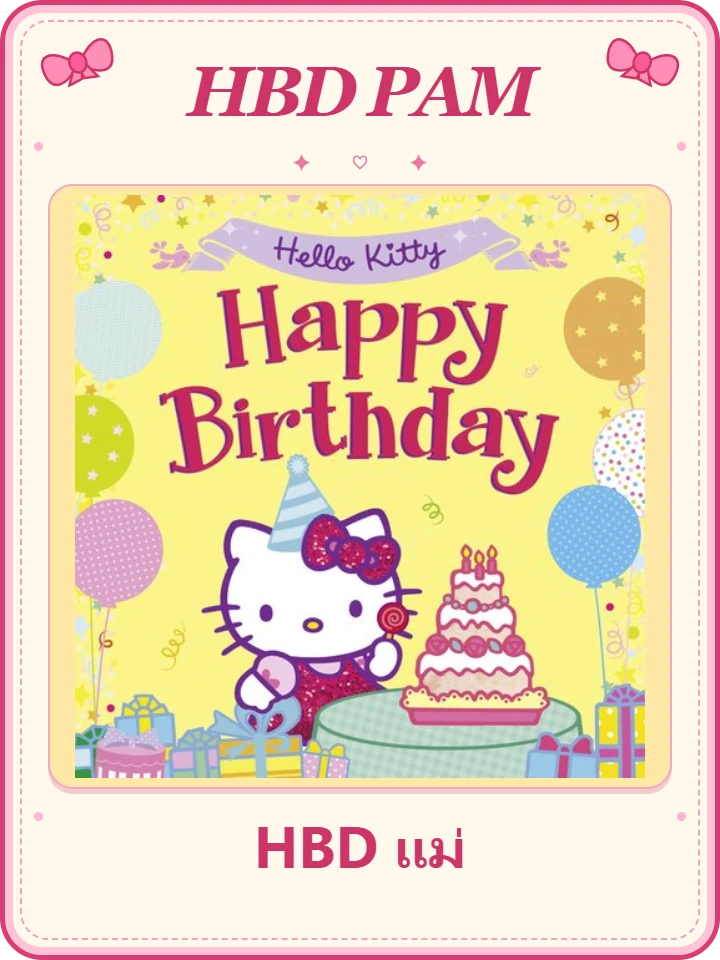
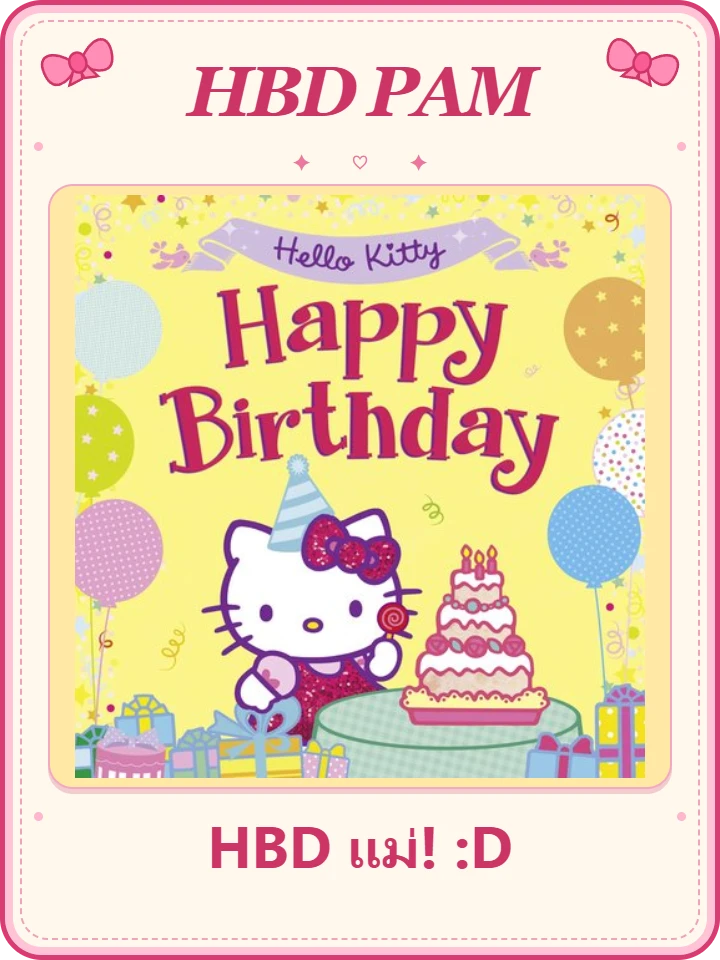
Add cheerful punctuation to birthday greeting for mom

Changed region(s): [[0.275, 0.8438, 0.7333, 0.9062]]

diff --git a/app.js b/app.js
@@ -325,10 +325,10 @@
   function showFinale() {
     if (machine.state !== 'anticipation') return;
     machine.state = 'finale'; els.app.classList.remove('is-anticipating'); els.app.classList.add('is-finale');
-    els.focus.innerHTML = '<figure class="finale-card"><div class="image-frame"><img src="'+finale.src+'" alt="'+finale.alt+'" data-fallback="Kitty cake" draggable="false"></div><figcaption><h1 class="finale-title">HBD PAM!</h1><p class="finale-sub">HBD แม่</p><div class="ascii-cheer" aria-hidden="true"><span>✧</span> (ﾉ◕ヮ◕)ﾉ*:･ﾟ✧ <span>✧</span></div><button class="end-button" id="galleryButton" type="button" hidden>ดูทั้งหมด / ดูอีกครั้ง</button></figcaption></figure>';
+    els.focus.innerHTML = '<figure class="finale-card"><div class="image-frame"><img src="'+finale.src+'" alt="'+finale.alt+'" data-fallback="Kitty cake" draggable="false"></div><figcaption><h1 class="finale-title">HBD PAM!</h1><p class="finale-sub">HBD แม่! :D</p><div class="ascii-cheer" aria-hidden="true"><span>✧</span> (ﾉ◕ヮ◕)ﾉ*:･ﾟ✧ <span>✧</span></div><button class="end-button" id="galleryButton" type="button" hidden>ดูทั้งหมด / ดูอีกครั้ง</button></figcaption></figure>';
     flash('mega-flash'); particles.burst(innerWidth/2,innerHeight*.43,120,'finale'); particles.finaleRain();
     if (navigator.vibrate) navigator.vibrate([40,30,70]);
-    announce('HBD PAM! HBD แม่');
+    announce('HBD PAM! HBD แม่! :D');
     later(() => {
       const button = $('#galleryButton'); button.hidden=false;
       button.addEventListener('click',showGallery,{once:true});

diff --git a/index.html b/index.html
@@ -61,7 +61,7 @@
     <section class="screen gallery-screen" id="galleryScreen" aria-labelledby="galleryHeading" aria-hidden="true">
       <header class="gallery-header">
         <p class="eyebrow"></p>
-        <h2 id="galleryHeading">HBD PAM · HBD แม่</h2>
+        <h2 id="galleryHeading">HBD PAM · HBD แม่! :D</h2>
         <p>แตะการ์ดเพื่อเปิดดูใบใหญ่ได้เลย</p>
       </header>
       <div class="gallery-grid" id="galleryGrid"></div>

diff --git a/README.md b/README.md
@@ -2,7 +2,7 @@
 
 A mobile birthday surprise in strawberry pink, cream, and cherry red, with floating kaomoji decorations. The page starts with the gift box. Tap it rapidly to make it shake and glow, then watch nine birthday cards bounce out and appear one at a time. The letter waits for you to read **happy birthday สูง เก่งง ^^** before the grand Hello Kitty cake reveal.
 
-Every birthday card includes **HBD PAM** and **HBD แม่**. After the reveal, view the collection or replay the gift opening. The supplied “A Sweet Smile” MP3 starts on the first gift tap. There are no audio controls.
+Every birthday card includes **HBD PAM** and **HBD แม่! :D**. After the reveal, view the collection or replay the gift opening. The supplied “A Sweet Smile” MP3 starts on the first gift tap. There are no audio controls.
 
 ## Open
 

diff --git a/ASSETS.md b/ASSETS.md
@@ -1,6 +1,6 @@
 # Image sources
 
-Nine greeting cards were composed in HTML, with **HBD PAM** and **HBD แม่** added as real text before rendering to 720 × 960 PNG. WebP copies are used by the page. The five supplied photos were retained; phone interface bars and the English Furina video subtitle were cropped out.
+Nine greeting cards were composed in HTML, with **HBD PAM** and **HBD แม่! :D** added as real text before rendering to 720 × 960 PNG. WebP copies are used by the page. The five supplied photos were retained; phone interface bars and the English Furina video subtitle were cropped out.
 
 ## Supplied images
 
